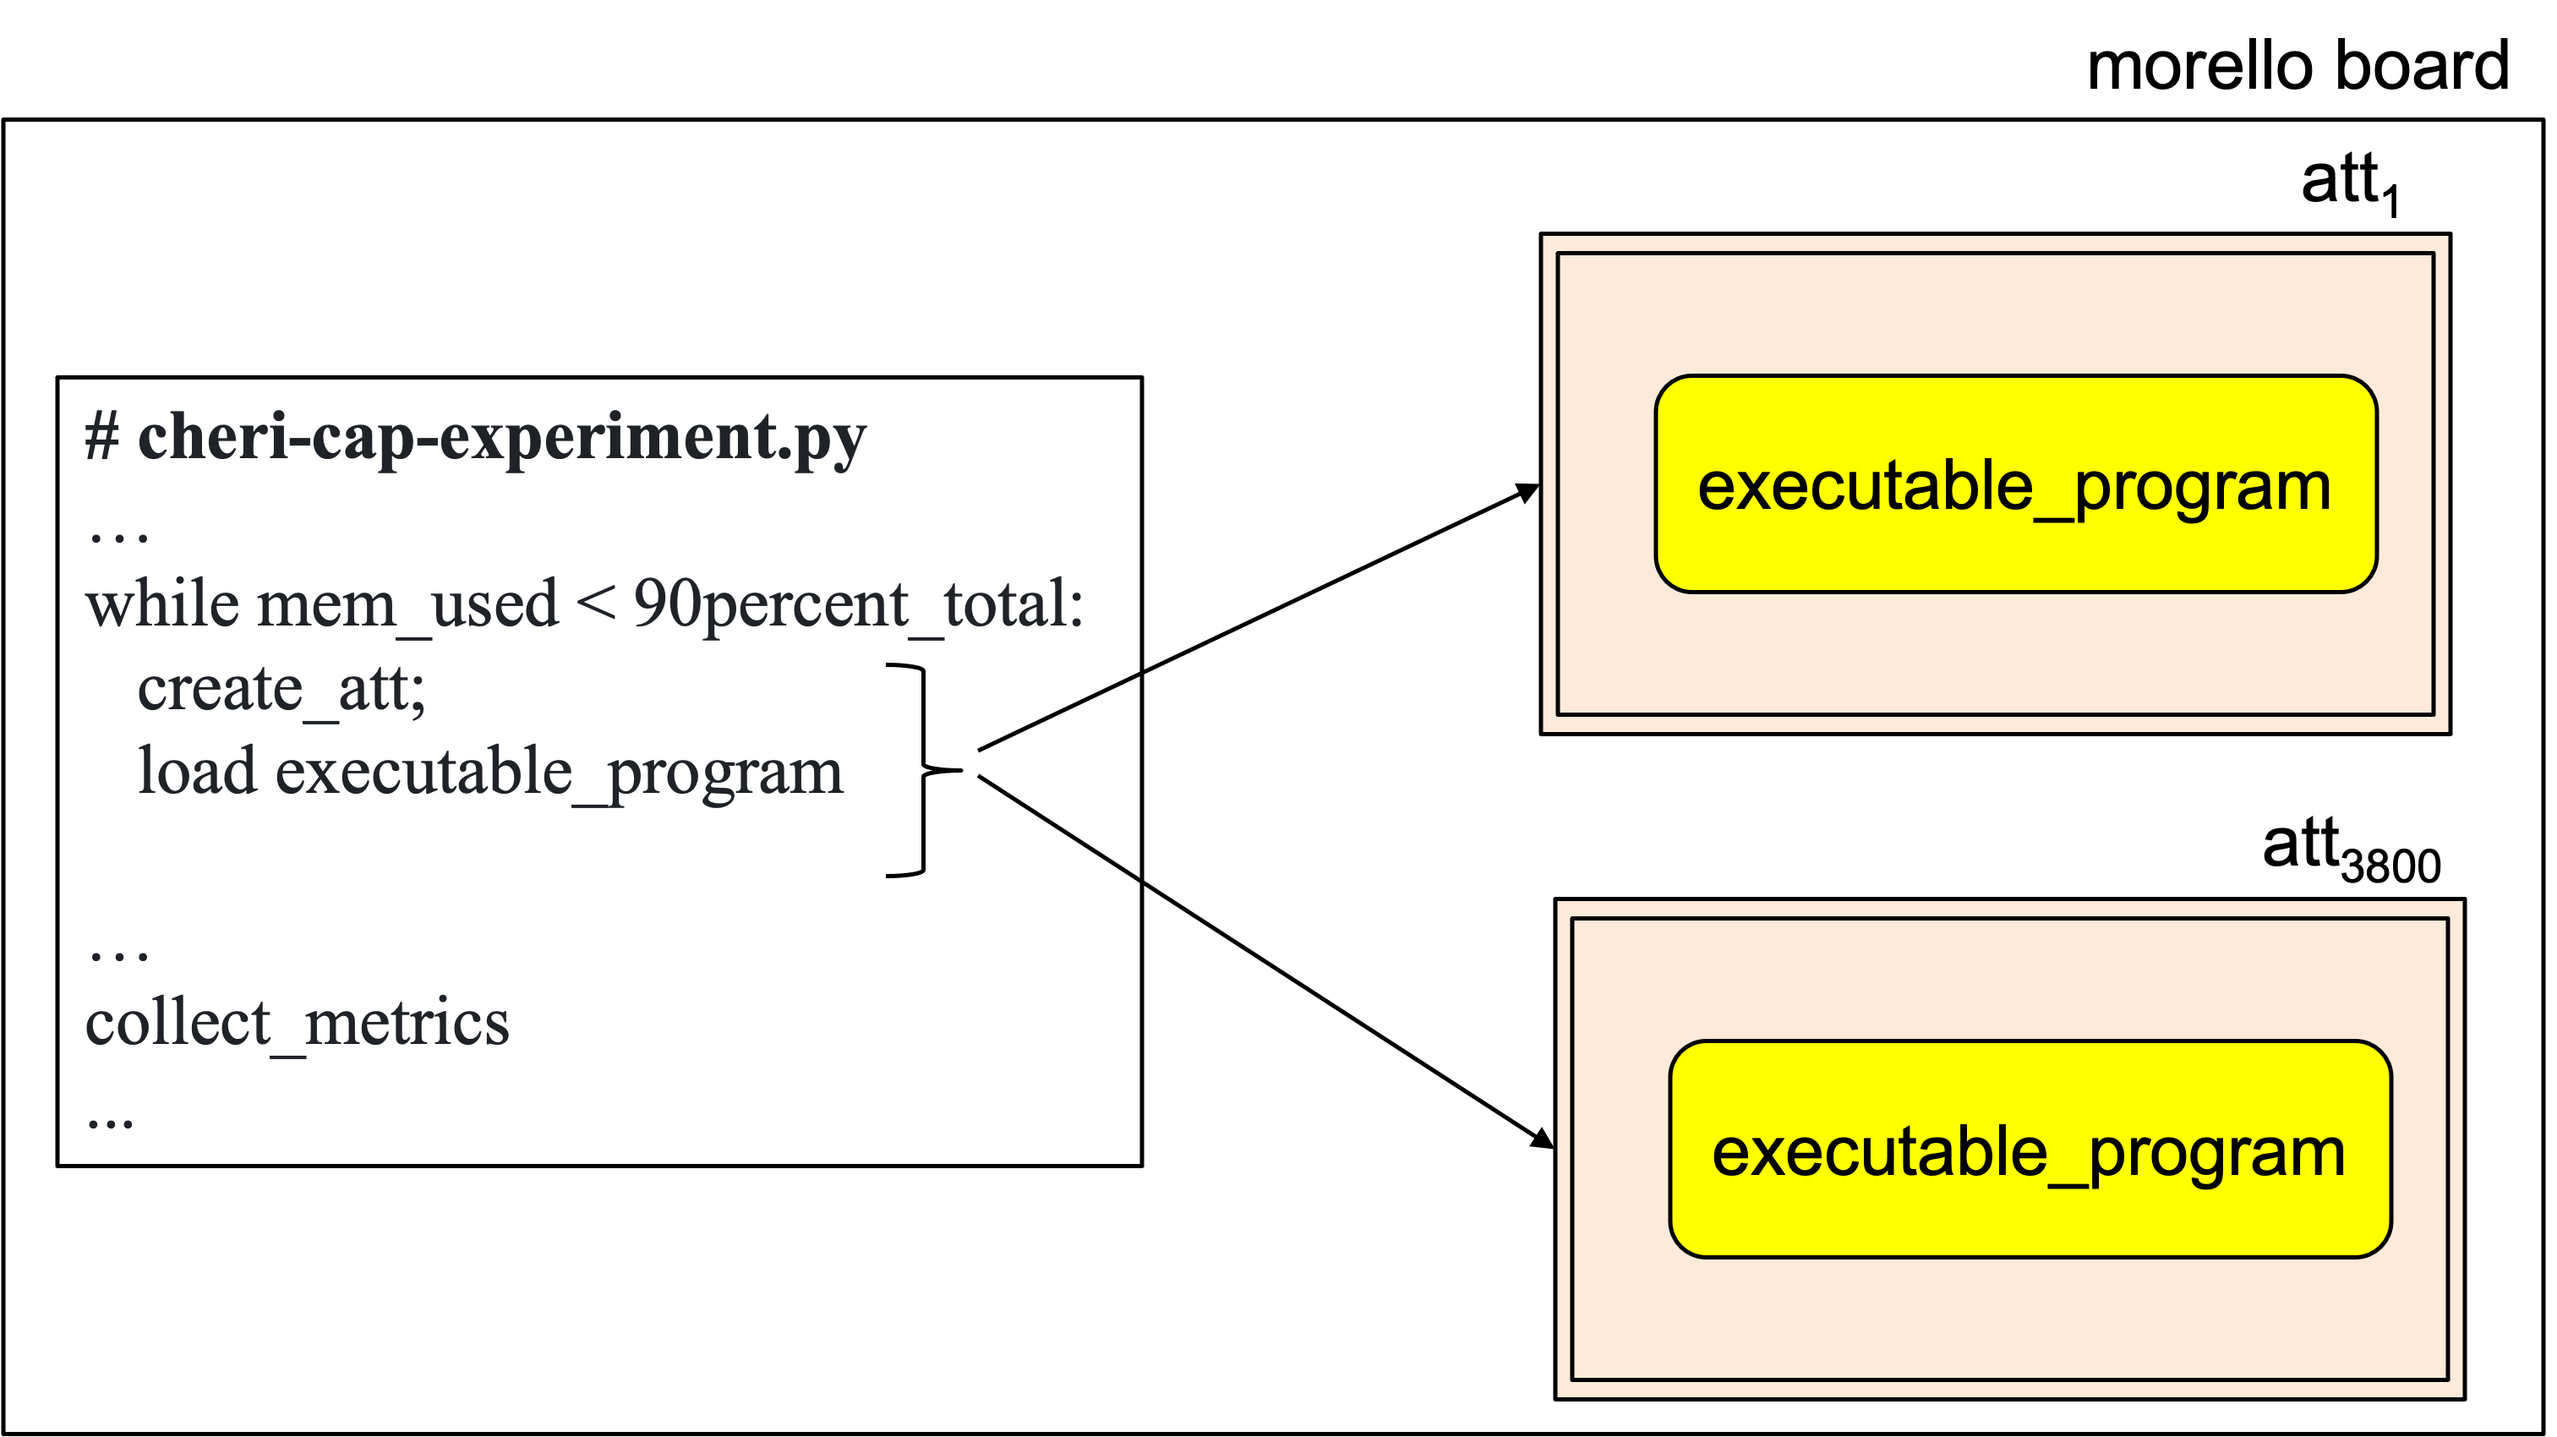
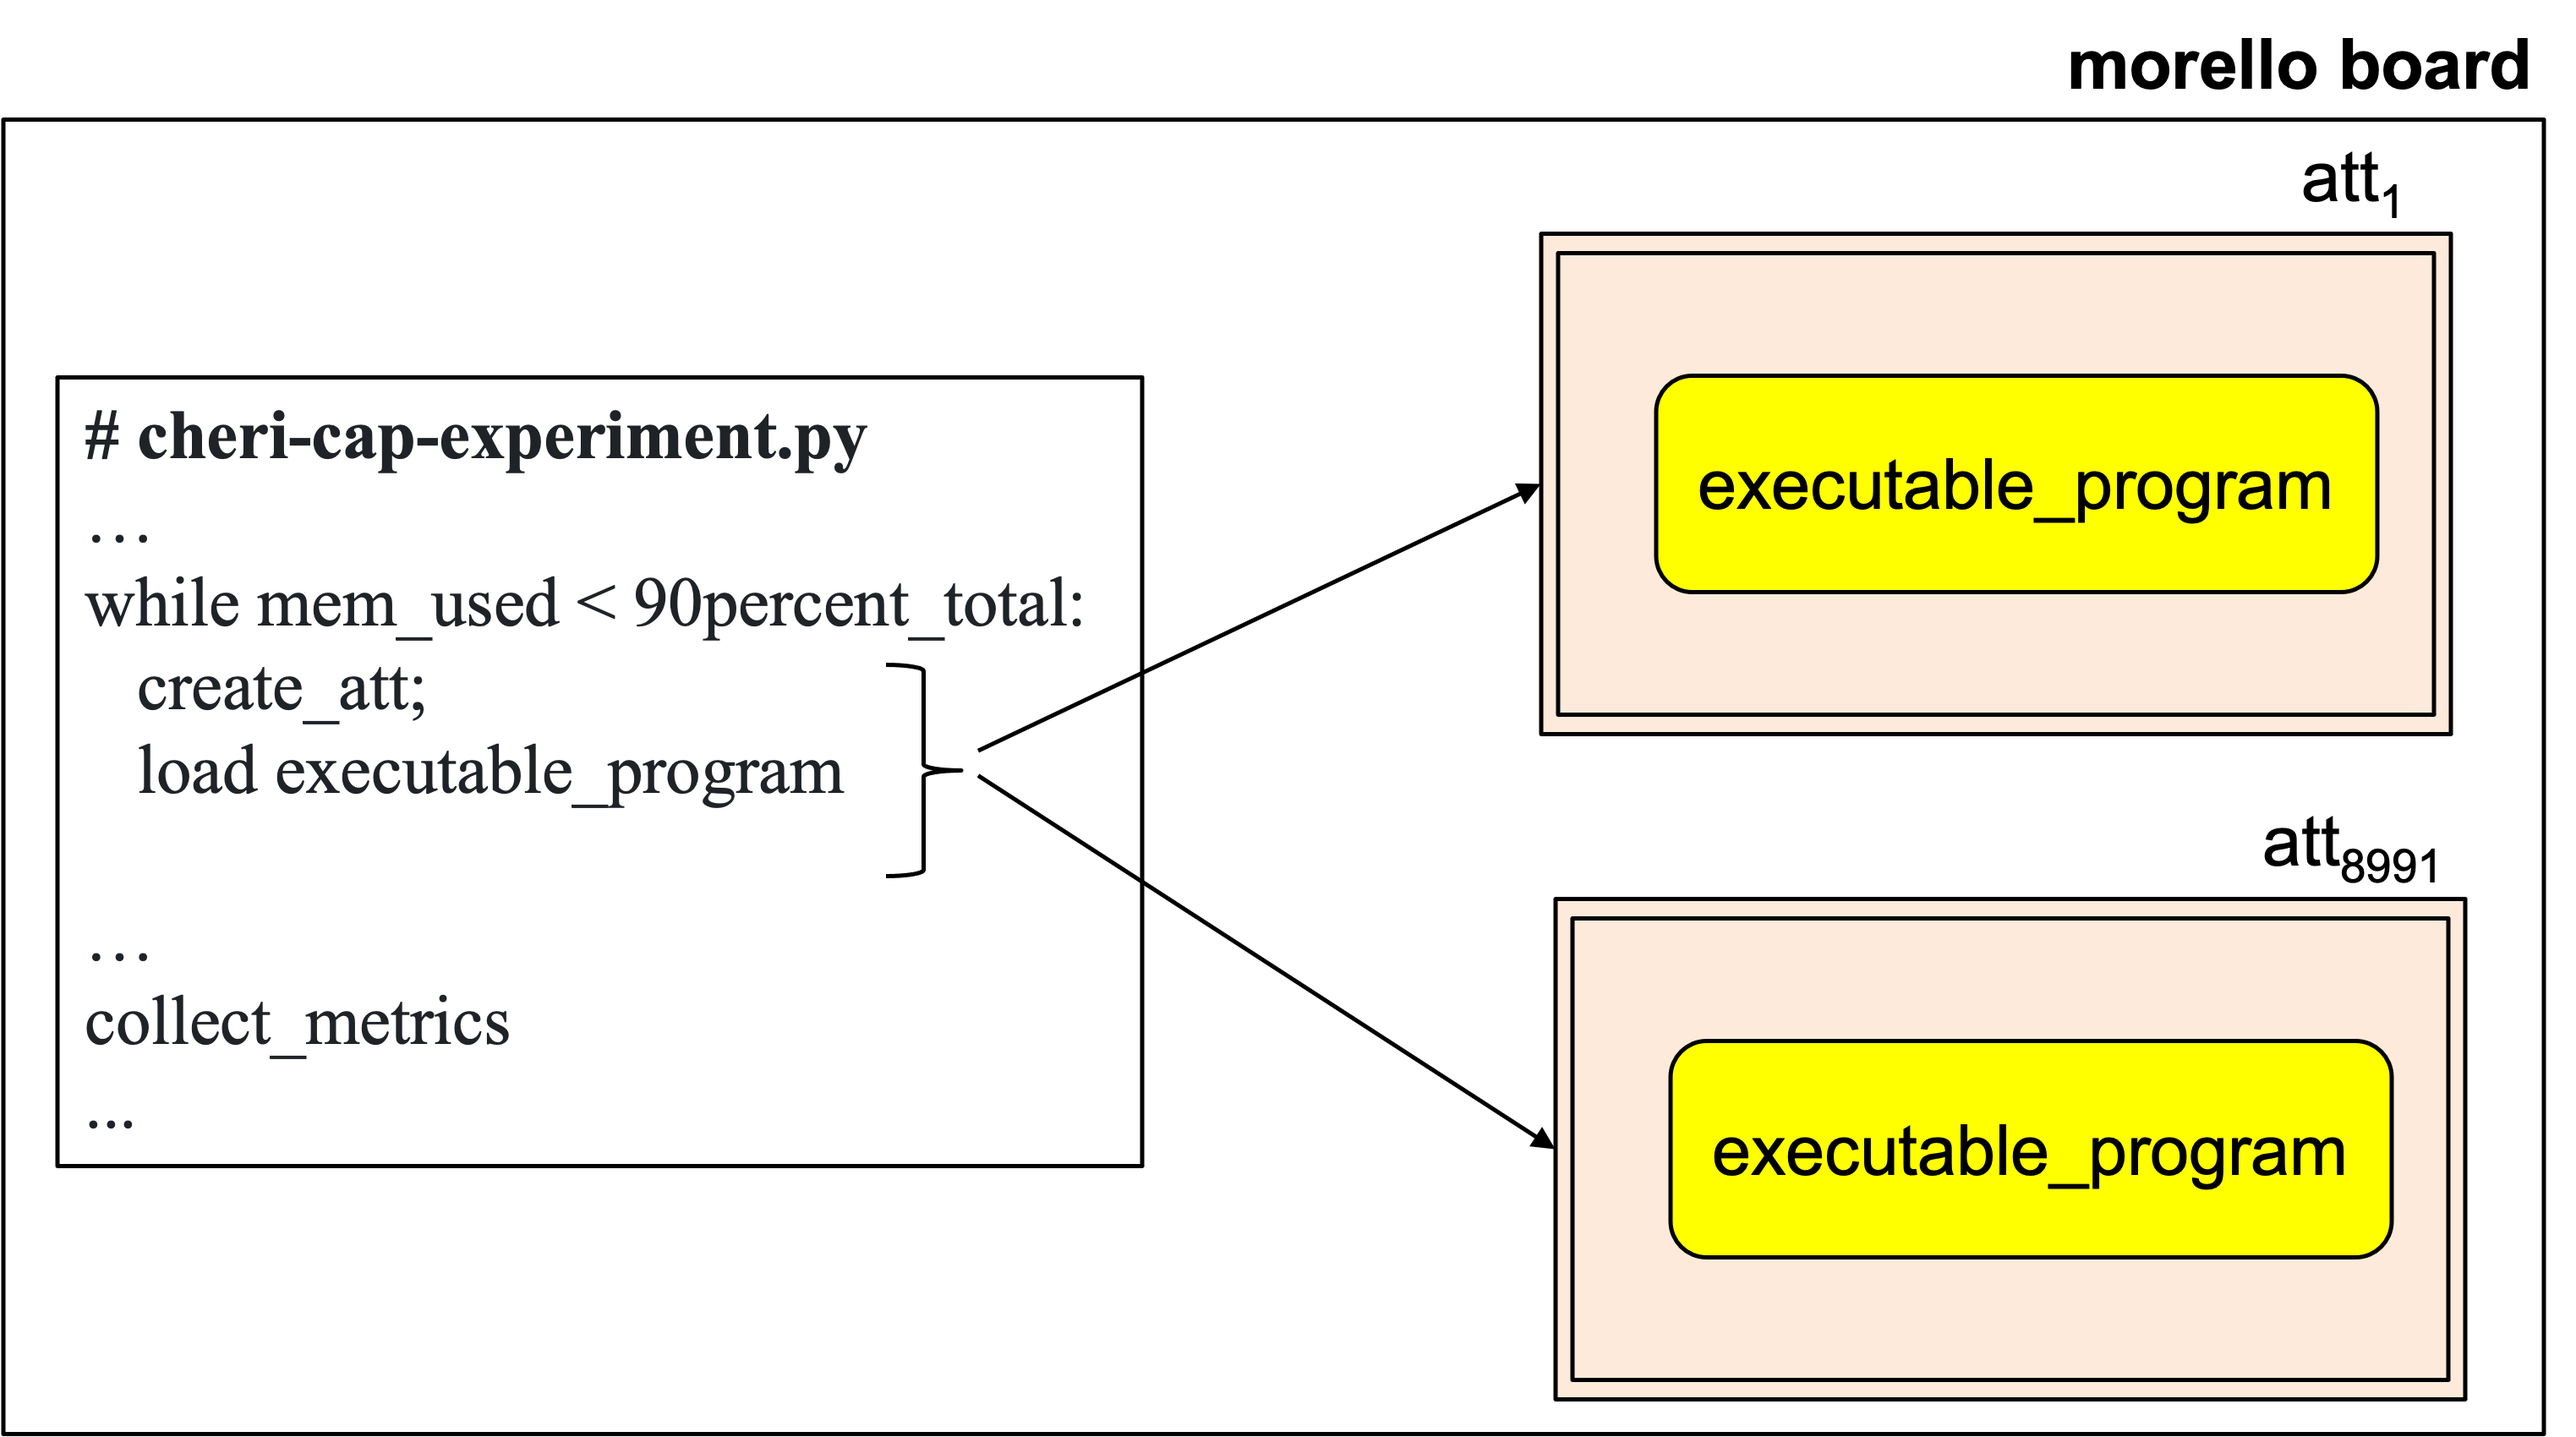
.

diff --git a/README.md b/README.md
@@ -30,6 +30,7 @@ discussed in - [tee-compartimentalisation-study-case repository](https://github.
   -lssl -lcrypto -lpthread<br>    
 </p>
 
+
 1) cheri-cap-experiment.py scrypt is used create the replicas of the attestables, and collect metrics. We incremented the number of replicas created from 1 to 3800.
 See [replication of attestable results](https://github.com/CAMB-DSbD/tee-morello-performance-experiments/blob/main/cheri-caps-executable-performance/cheri-cap-experiment-results.csv "svs file")
 </p>
@@ -65,10 +66,11 @@ is, about 15406567833 bytes.
 ### Preliminary observations:
 From the preliminary results 
 (see [replication of attestable results](https://github.com/CAMB-DSbD/tee-morello-performance-experiments/blob/main/cheri-caps-executable-performance/cheri-cap-experiment-results.csv "svs file"))
-it seems that 3800 compartments 
+it seems that 8991 compartments 
 consume 90% of the Morello Board's memory. But this is only a
 first glance observation that we will need to double
 check to make a sound claim.
+ 
  
  
  
